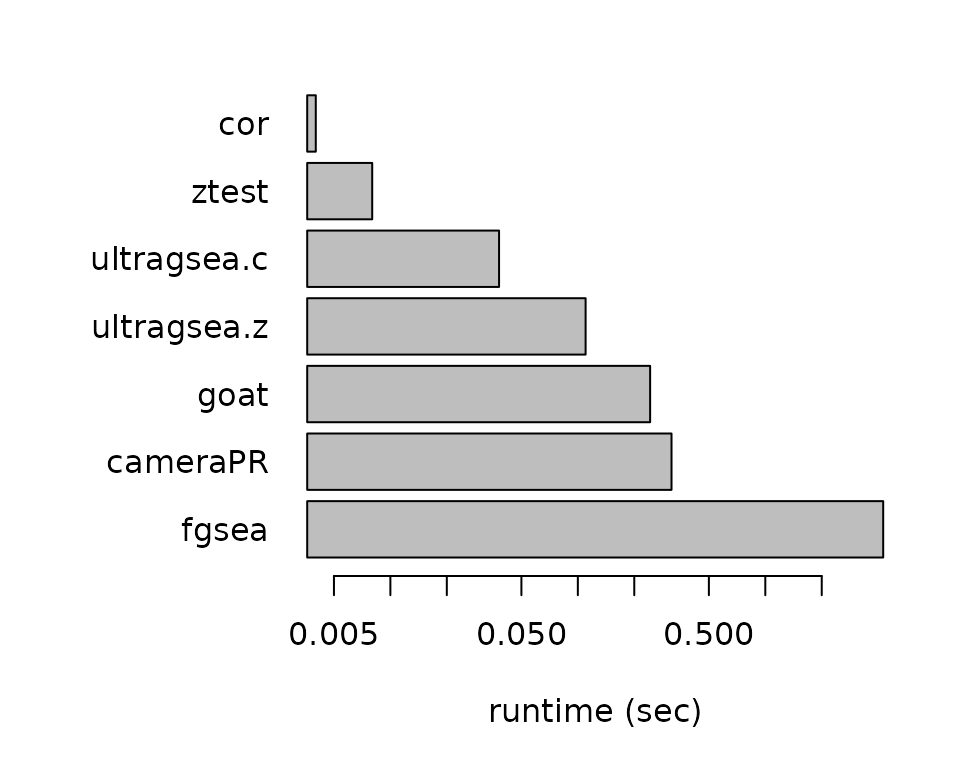
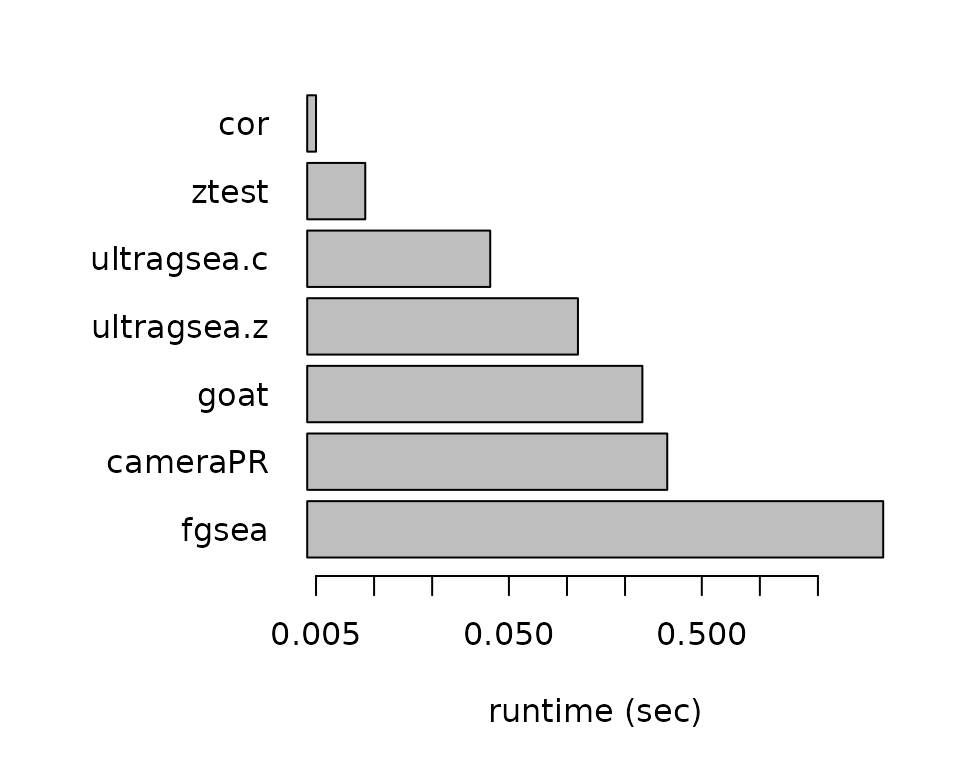
Deploying to gh-pages from @ bigomics/ultragsea@a0717d864d5fd0930de710e1911cf55f54a29adf 🚀

diff --git a/articles/compare-methods.html b/articles/compare-methods.html
@@ -165,43 +165,43 @@ of each method.</p>
 <tbody>
 <tr class="odd">
 <td align="left">fgsea</td>
-<td align="right">4.255</td>
+<td align="right">4.359</td>
 <td align="right">4.1</td>
 <td align="right">43.9</td>
 </tr>
 <tr class="even">
 <td align="left">cameraPR</td>
-<td align="right">0.316</td>
+<td align="right">0.331</td>
 <td align="right">0.8</td>
 <td align="right">42.6</td>
 </tr>
 <tr class="odd">
 <td align="left">ultragsea.z</td>
-<td align="right">0.110</td>
+<td align="right">0.114</td>
 <td align="right">1.9</td>
 <td align="right">21.3</td>
 </tr>
 <tr class="even">
 <td align="left">ultragsea.c</td>
-<td align="right">0.038</td>
+<td align="right">0.040</td>
 <td align="right">0.9</td>
 <td align="right">8.9</td>
 </tr>
 <tr class="odd">
 <td align="left">cor</td>
-<td align="right">0.004</td>
+<td align="right">0.005</td>
 <td align="right">0.0</td>
 <td align="right">2.8</td>
 </tr>
 <tr class="even">
 <td align="left">ztest</td>
-<td align="right">0.008</td>
+<td align="right">0.009</td>
 <td align="right">0.0</td>
 <td align="right">6.5</td>
 </tr>
 <tr class="odd">
 <td align="left">goat</td>
-<td align="right">0.243</td>
+<td align="right">0.246</td>
 <td align="right">4.5</td>
 <td align="right">23.7</td>
 </tr>

diff --git a/articles/compare-methods.md b/articles/compare-methods.md
@@ -96,13 +96,13 @@ kableExtra::kable(tt)
 
 | Function_Call | Elapsed_Time_sec | Total_RAM_Used_MiB | Peak_RAM_Used_MiB |
 |:--------------|-----------------:|-------------------:|------------------:|
-| fgsea         |            4.255 |                4.1 |              43.9 |
-| cameraPR      |            0.316 |                0.8 |              42.6 |
-| ultragsea.z   |            0.110 |                1.9 |              21.3 |
-| ultragsea.c   |            0.038 |                0.9 |               8.9 |
-| cor           |            0.004 |                0.0 |               2.8 |
-| ztest         |            0.008 |                0.0 |               6.5 |
-| goat          |            0.243 |                4.5 |              23.7 |
+| fgsea         |            4.359 |                4.1 |              43.9 |
+| cameraPR      |            0.331 |                0.8 |              42.6 |
+| ultragsea.z   |            0.114 |                1.9 |              21.3 |
+| ultragsea.c   |            0.040 |                0.9 |               8.9 |
+| cor           |            0.005 |                0.0 |               2.8 |
+| ztest         |            0.009 |                0.0 |               6.5 |
+| goat          |            0.246 |                4.5 |              23.7 |
 
 ``` r
 rt <- tt[,2]
